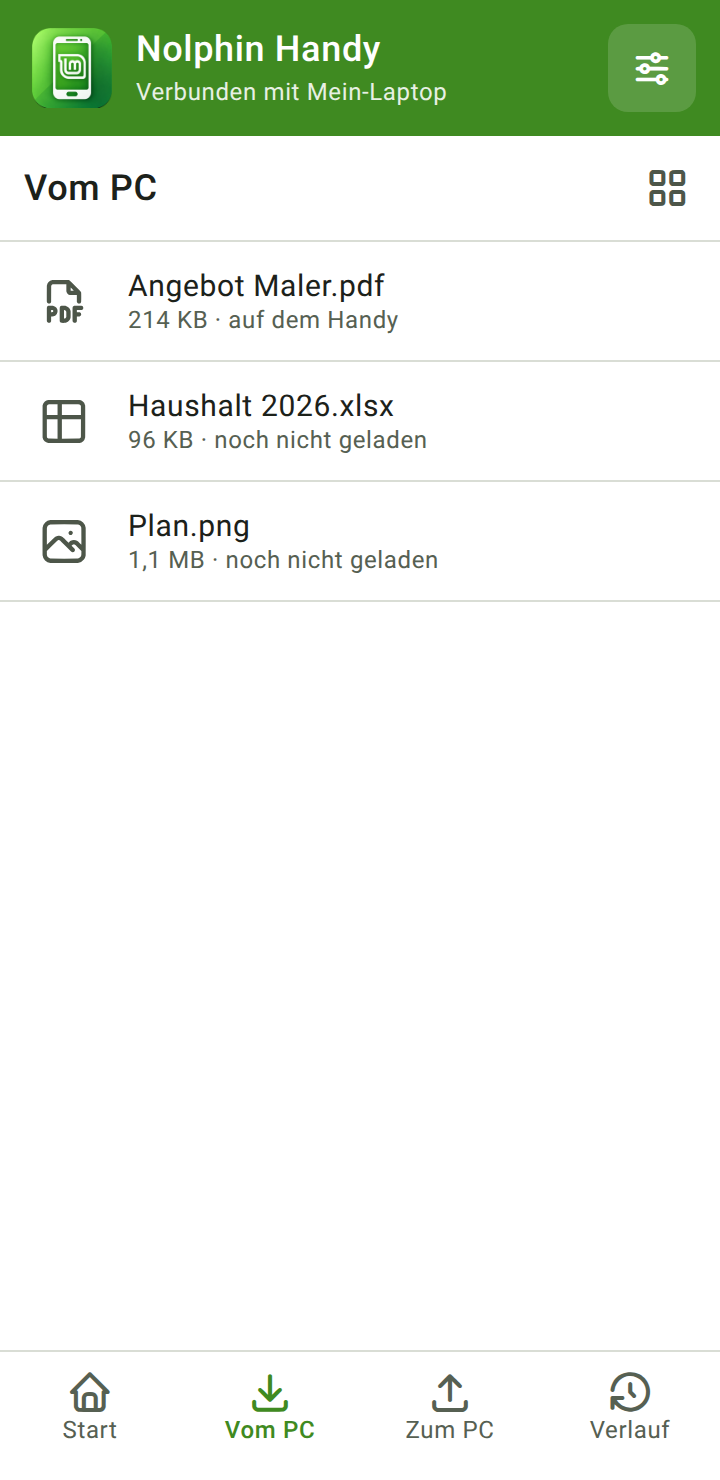
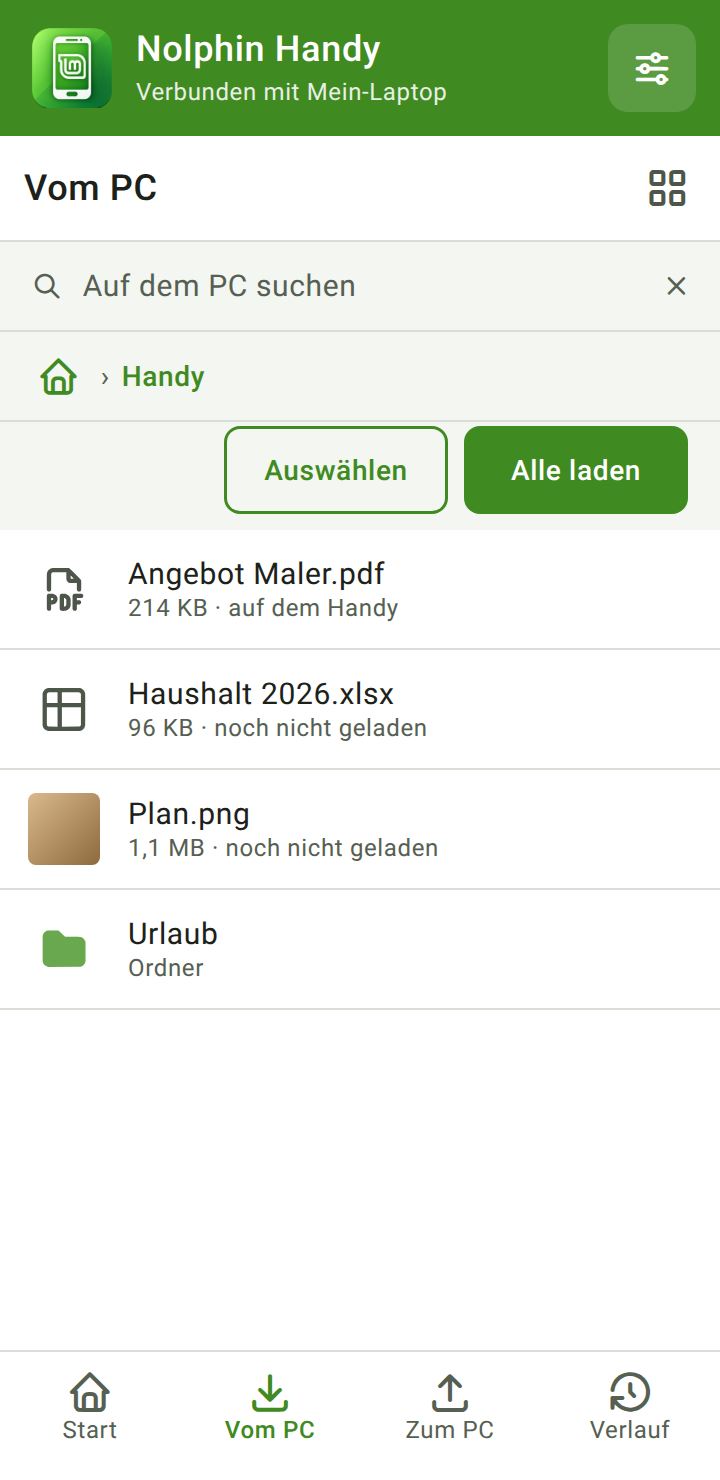
README-Bilder neu: Google Fotos und Cloud, Speicher-Schalter, Einfuegen-Leiste, Vom PC im neuen Stil

diff --git a/docs/bilder/quelle.html b/docs/bilder/quelle.html
@@ -3,7 +3,7 @@
 <meta name="viewport" content="width=device-width,initial-scale=1">
 <title>Bilder für die README (Beispieldaten)</title>
 <link rel="stylesheet" href="https://cdn.jsdelivr.net/npm/@tabler/icons-webfont@3.19.0/dist/tabler-icons.min.css">
-<!-- Quelle der README-Bilder. Aufruf: quelle.html#<seite>-<hell|dunkel>. Seiten: start, uebersicht, liste, auswahl, dokumente, vompc.
+<!-- Quelle der README-Bilder. Aufruf: quelle.html#<seite>-<hell|dunkel>. Seiten: start, uebersicht, liste, auswahl, dokumente, einfuegen, vompc, vompcauswahl.
      Rendern: google-chrome --headless --screenshot=OUT.png --window-size=360,740 --force-device-scale-factor=2 "file:///…/quelle.html#liste-hell" -->
 <style>
 :root{--font:Roboto,"Noto Sans","DejaVu Sans",system-ui,sans-serif}
@@ -40,7 +40,7 @@ body.dunkel .cb.on{color:#10200A}
 .nav{display:flex;border-top:1px solid var(--ln);background:var(--sf);flex:none;height:64px}
 .nav div{flex:1;text-align:center;padding-top:8px;font-size:12px;color:var(--dm)}.nav div i{display:block;font-size:24px}.nav .on{color:var(--pr);font-weight:500}
 .card{background:var(--sf);border:1px solid var(--ln);border-radius:10px;padding:16px}
-.card h3{margin:0;font-size:20px;font-weight:500}.card p{margin:2px 0 0;font-size:14px;color:var(--dm)}
+.grp,.card,.mini,.two{flex:none}.card h3{margin:0;font-size:20px;font-weight:500}.card p{margin:2px 0 0;font-size:14px;color:var(--dm)}
 .head{display:flex;gap:16px;align-items:center}.badge{width:64px;height:64px;border-radius:12px;background:var(--pr);color:#fff;display:flex;align-items:center;justify-content:center;font-size:32px}
 body.dunkel .badge{color:#10200A}
 .btn{margin-top:12px;border:1.5px solid var(--pr);color:var(--pr);border-radius:8px;text-align:center;padding:13px;font-size:15px;font-weight:500}
@@ -53,12 +53,19 @@ body.dunkel .badge{color:#10200A}
 .vol{padding:12px 16px}.bar{height:6px;border-radius:3px;background:var(--ln);margin:10px 0 0 40px}.bar i{display:block;height:6px;border-radius:3px;background:var(--pr)}
 .vt{display:flex;align-items:center;gap:16px}.vt .pc{margin-left:auto;color:var(--pr);font-weight:500;font-size:14px}
 .recent .r{border:0;height:52px;padding-left:0}.recent .r>i{font-size:22px;color:var(--pr);width:28px}.recent .ico{font-size:22px;color:var(--pr);width:28px}
+.bt{display:flex;align-items:center;justify-content:center;height:44px;min-width:112px;padding:0 16px;box-sizing:border-box;border-radius:8px;font-size:14px;font-weight:500;border:1.5px solid var(--pr);color:var(--pr);white-space:nowrap}
+.bt.f{background:var(--pr);color:#fff}body.dunkel .bt.f{color:#10200A}
+.paste{display:flex;align-items:center;gap:8px;padding:8px 16px;background:var(--sf);border-top:1px solid var(--ln);flex:none}
+.paste span{flex:1;font-size:14px;font-weight:500}
+.stor{display:flex;background:var(--bg);border-bottom:1px solid var(--ln);flex:none;padding:0 8px;font-size:14px}
+.stor div{flex:1;text-align:center;padding:10px 8px 8px;color:var(--dm);border-bottom:3px solid transparent}.stor .on{color:var(--pr);font-weight:500;border-color:var(--pr)}
+.actions{display:flex;justify-content:flex-end;gap:8px;padding:2px 16px 8px;background:var(--bg);flex:none}
 .cap{font-size:12px;color:var(--dm);text-align:center;padding:6px}
 </style></head>
 <body><div id="root" style="display:contents"></div>
 <script>
 const h=(location.hash||'#start-hell').slice(1).split('-');const page=h[0],theme=h[1]||'hell';
-document.body.className=theme;
+document.body.className=theme;if(page==='uebersicht')document.body.style.height='900px';
 const ic=n=>`<i class="ti ti-${n}"></i>`;
 const nav=a=>`<div class="nav">${[['home','Start'],['download','Vom PC'],['upload','Zum PC'],['history','Verlauf']].map((x,i)=>`<div class="${i==a?'on':''}">${ic(x[0])}${x[1]}</div>`).join('')}</div>`;
 const app=`<div class="app"><img src="../../res/mipmap-xxxhdpi/ic_launcher.png" alt=""><div><b>Nolphin Handy</b><small>Verbunden mit Mein-Laptop</small></div><div class="set">${ic('adjustments-horizontal')}</div></div>`;
@@ -75,17 +82,21 @@ if(page==='start'){html=app+`<div class="body"><div class="pad">
 </div></div>`+nav(0);}
 if(page==='uebersicht'){html=app+`<div class="top"><span>Zum PC</span></div><div class="search">${ic('search')}Auf dem Handy suchen${ic('x')}</div><div class="body"><div class="pad" style="padding-top:8px">
 <div class="sec">SPEICHER</div><div class="grp"><div class="vol"><div class="vt">${ic('device-mobile')}<div><div style="font-size:16px;font-weight:500">Hauptspeicher</div><div class="s">74 GB von 128 GB belegt</div></div><div class="pc">58 %</div></div><div class="bar"><i style="width:58%"></i></div></div>
-<div class="vol" style="border-top:1px solid var(--ln)"><div class="vt">${ic('sd-card')}<div><div style="font-size:16px;font-weight:500">SD-Karte</div><div class="s">7 GB von 60 GB belegt</div></div><div class="pc">12 %</div></div><div class="bar"><i style="width:12%"></i></div></div></div>
-<div class="sec">SCHNELLZUGRIFF</div><div class="grp">${row('download','Downloads','12 Elemente',{more:false})}${row('apps','Apps','1 App',{more:false})}</div>
+<div class="vol" style="border-top:1px solid var(--ln)"><div class="vt">${ic('database')}<div><div style="font-size:16px;font-weight:500">SD-Karte</div><div class="s">7 GB von 60 GB belegt</div></div><div class="pc">12 %</div></div><div class="bar"><i style="width:12%"></i></div></div></div>
+<div class="sec">SCHNELLZUGRIFF</div><div class="grp">${row('download','Downloads','12 Elemente',{more:false})}${row('apps','Apps','1 App',{more:false})}${row('photo','Google Fotos','Fotos und Videos aus der Cloud',{more:false})}${row('cloud','Cloud und andere Apps','Google Drive und Dateien anderer Apps',{more:false})}</div>
 <div class="sec">KATEGORIEN</div><div class="grp">${row('photo','Bilder','120 MB · 83 Dateien',{more:false})}${row('music','Audio','12 GB · 2437 Dateien',{more:false})}${row('file-text','Dokumente','31 MB · 17 Dateien',{more:false})}</div>
 </div></div>`+nav(2);}
 if(page==='liste'){html=app+`<div class="top">${ic('arrow-left')}<span>Dokumente</span>${ic('folder-plus')}${ic('layout-grid')}</div><div class="search">${ic('search')}Auf dem Handy suchen${ic('x')}</div><div class="path">${ic('home')}<span>›</span><em>Speicher</em><em>›</em><b>Dokumente</b></div><div class="body">
 ${F('Steuer 2025','14 Elemente')}${F('Versicherungen','6 Elemente')}${row('file-type-pdf','Rechnung_Oktober.pdf','214 KB · 12.10.2026')}${row('file-text','Brief Finanzamt.docx','48 KB · 10.10.2026')}${row('table','Haushalt 2026.xlsx','96 KB · 03.10.2026')}${row('photo','Urlaub_001.jpg','3,2 MB · 01.10.2026',{th:'#8DB6D9,#3E6B8E'})}${row('file-zip','Sicherung.zip','128 MB · 28.09.2026')}${row('box','Zahnrad.step','201 KB · 11.10.2026')}</div>`+nav(2);}
 if(page==='auswahl'){html=app+`<div class="sel">${ic('x')}<span>3 gewählt</span>${ic('upload')}${ic('copy')}${ic('arrows-move')}${ic('trash')}${ic('dots-vertical')}</div><div class="search">${ic('search')}Auf dem Handy suchen${ic('x')}</div><div class="body">
 ${row('folder-filled','Steuer 2025','14 Elemente',{fo:1,cb:1,on:1,more:false})}${row('folder-filled','Versicherungen','6 Elemente',{fo:1,cb:0,more:false})}${row('file-type-pdf','Rechnung_Oktober.pdf','214 KB · 12.10.2026',{cb:1,on:1,more:false})}${row('file-text','Brief Finanzamt.docx','48 KB · 10.10.2026',{cb:0,more:false})}${row('table','Haushalt 2026.xlsx','96 KB · 03.10.2026',{cb:1,on:1,more:false})}${row('photo','Urlaub_001.jpg','3,2 MB · 01.10.2026',{cb:0,more:false,th:'#8DB6D9,#3E6B8E'})}${row('file-zip','Sicherung.zip','128 MB · 28.09.2026',{cb:0,more:false})}</div>`+nav(2);}
-if(page==='dokumente'){html=app+`<div class="top">${ic('arrow-left')}<span>Dokumente</span>${ic('layout-grid')}</div><div class="search">${ic('search')}Auf dem Handy suchen${ic('x')}</div><div class="path">${ic('home')}<span>›</span><b>Dokumente</b></div><div class="tabs"><div>Alle</div><div>DOC</div><div>XLS</div><div class="on">PDF</div><div>PPT</div><div>Sonstige</div></div><div class="body">
+if(page==='dokumente'){html=app+`<div class="top">${ic('arrow-left')}<span>Dokumente</span>${ic('layout-grid')}</div><div class="search">${ic('search')}Auf dem Handy suchen${ic('x')}</div><div class="path">${ic('home')}<span>›</span><b>Dokumente</b></div><div class="tabs"><div>Alle</div><div>DOC</div><div>XLS</div><div class="on">PDF</div><div>PPT</div><div>Sonstige</div></div><div class="stor"><div class="on">Beides</div><div>Intern</div><div>SD-Karte</div></div><div class="body">
 ${row('file-type-pdf','Rechnung_Oktober.pdf','Download · 214 KB · 12.10.2026')}${row('file-type-pdf','Vertrag Wohnung.pdf','Documents · 1,2 MB · 02.10.2026')}${row('file-type-pdf','Bedienungsanleitung.pdf','SD-Karte · Download · 3,4 MB · 28.09.2026')}${row('file-type-pdf','Fahrplan.pdf','Download · 180 KB · 20.09.2026')}</div>`+nav(2);}
-if(page==='vompc'){html=app+`<div class="top"><span>Vom PC</span>${ic('layout-grid')}</div><div class="body">
-${row('file-type-pdf','Angebot Maler.pdf','214 KB  ·  auf dem Handy',{more:false})}${row('table','Haushalt 2026.xlsx','96 KB  ·  noch nicht geladen',{more:false})}${row('photo','Plan.png','1,1 MB  ·  noch nicht geladen',{more:false})}</div>`+nav(1);}
+if(page==='vompc'){html=app+`<div class="top"><span>Vom PC</span>${ic('layout-grid')}</div><div class="search" style="padding-left:16px">${ic('search')}Auf dem PC suchen${ic('x')}</div><div class="path">${ic('home')}<span>›</span><b>Handy</b></div><div class="actions"><div class="bt">Auswählen</div><div class="bt f">Alle laden</div></div><div class="body">
+${row('file-type-pdf','Angebot Maler.pdf','214 KB  ·  auf dem Handy',{more:false})}${row('table','Haushalt 2026.xlsx','96 KB  ·  noch nicht geladen',{more:false})}${row('photo','Plan.png','1,1 MB  ·  noch nicht geladen',{more:false,th:'#D9B98D,#8E6A3E'})}${row('folder-filled','Urlaub','Ordner',{fo:1,more:false})}</div>`+nav(1);}
+if(page==='einfuegen'){html=app+`<div class="top">${ic('arrow-left')}<span>Ziel</span>${ic('folder-plus')}${ic('layout-grid')}</div><div class="search">${ic('search')}Auf dem Handy suchen${ic('x')}</div><div class="path">${ic('home')}<span>›</span><em>Speicher</em><em>›</em><em>Download</em><em>›</em><b>Ziel</b></div><div class="body">
+${row('file-text','Notizen.txt','8 B · 12.10.2026')}${row('file-type-pdf','Plan.pdf','412 KB · 11.10.2026')}</div><div class="paste"><span>2 Elemente verschieben</span><div class="bt">Abbrechen</div><div class="bt f">Hierher</div></div>`+nav(2);}
+if(page==='vompcauswahl'){html=app+`<div class="sel">${ic('x')}<span>2 gewählt</span>${ic('checks')}${ic('download')}${ic('share')}${ic('device-floppy')}</div><div class="search" style="padding-left:16px">${ic('search')}Auf dem PC suchen${ic('x')}</div><div class="body">
+${row('file-type-pdf','Angebot Maler.pdf','214 KB  ·  auf dem Handy',{cb:1,on:1,more:false})}${row('table','Haushalt 2026.xlsx','96 KB  ·  noch nicht geladen',{cb:1,on:1,more:false})}${row('photo','Plan.png','1,1 MB  ·  noch nicht geladen',{cb:0,more:false,th:'#D9B98D,#8E6A3E'})}</div>`+nav(1);}
 document.getElementById('root').outerHTML=html;
 </script></body></html>

diff --git a/README.md b/README.md
@@ -14,11 +14,19 @@ Das Aussehen folgt Linux Mint (Mint-Grün), sachlich und ruhig: flache Listen, e
 
 | Start | Zum PC: Übersicht | Liste |
 |:--:|:--:|:--:|
-| ![Start, hell](docs/bilder/start-hell.png) | ![Übersicht, hell](docs/bilder/uebersicht-hell.png) | ![Liste, hell](docs/bilder/liste-hell.png) |
+| ![Start, hell](docs/bilder/start-hell.png) | ![Übersicht mit Google Fotos und Cloud, hell](docs/bilder/uebersicht-hell.png) | ![Liste, hell](docs/bilder/liste-hell.png) |
 
-| Auswahl | Dokumente mit Reitern | Dunkel |
+| Auswahl | Dokumente mit Reitern und Speicher-Schalter | Kopieren und Verschieben |
 |:--:|:--:|:--:|
-| ![Auswahl, hell](docs/bilder/auswahl-hell.png) | ![Dokumente, dunkel](docs/bilder/dokumente-dunkel.png) | ![Liste, dunkel](docs/bilder/liste-dunkel.png) |
+| ![Auswahl, hell](docs/bilder/auswahl-hell.png) | ![Dokumente, hell](docs/bilder/dokumente-hell.png) | ![Einfügen-Leiste, hell](docs/bilder/einfuegen-hell.png) |
+
+| Dunkel: Liste | Dunkel: Auswahl | Dunkel: Dokumente |
+|:--:|:--:|:--:|
+| ![Liste, dunkel](docs/bilder/liste-dunkel.png) | ![Auswahl, dunkel](docs/bilder/auswahl-dunkel.png) | ![Dokumente, dunkel](docs/bilder/dokumente-dunkel.png) |
+
+| Vom PC | Vom PC: Auswahl, dunkel | Start, dunkel |
+|:--:|:--:|:--:|
+| ![Vom PC, hell](docs/bilder/vompc-hell.png) | ![Vom PC mit Auswahl, dunkel](docs/bilder/vompcauswahl-dunkel.png) | ![Start, dunkel](docs/bilder/start-dunkel.png) |
 
 ## Die vier Reiter
 
@@ -30,8 +38,6 @@ Unten stehen vier Reiter. Die Einstellungen öffnen Sie oben rechts.
 | **Vom PC** | Dateien aus dem Ordner „Handy“ am PC, mit Vorschaubild. Antippen lädt eine Datei. Geladene Dateien lassen sich öffnen, teilen oder speichern. |
 | **Zum PC** | Der Dateimanager des Handys. Hier senden Sie Dateien und Ordner an den PC. |
 | **Verlauf** | Alle Übertragungen (bis 200) mit Ergebnis. |
-
-![Vom PC, hell](docs/bilder/vompc-hell.png)
 
 Die **Einstellungen** enthalten: Verbindung trennen, neue Dateien automatisch laden (aus: erst nach Antippen), Zielordner für Dateien vom PC, Verlauf löschen.
 
@@ -126,7 +132,7 @@ google-chrome --headless=new --hide-scrollbars --virtual-time-budget=6000 \
   --screenshot=docs/bilder/liste-hell.png "file://$PWD/docs/bilder/quelle.html#liste-hell"
 ```
 
-Seiten: `start`, `uebersicht`, `liste`, `auswahl`, `dokumente`, `vompc`, jeweils mit `-hell` oder `-dunkel`. Die Quelle braucht beim Rendern Internet für die Symbolschrift.
+Seiten: `start`, `uebersicht`, `liste`, `auswahl`, `dokumente`, `einfuegen`, `vompc`, `vompcauswahl`, jeweils mit `-hell` oder `-dunkel`. Die Seite `uebersicht` ist höher: `--window-size=360,900`. Die Quelle braucht beim Rendern Internet für die Symbolschrift.
 
 ## Aufbau des Quelltexts
 
